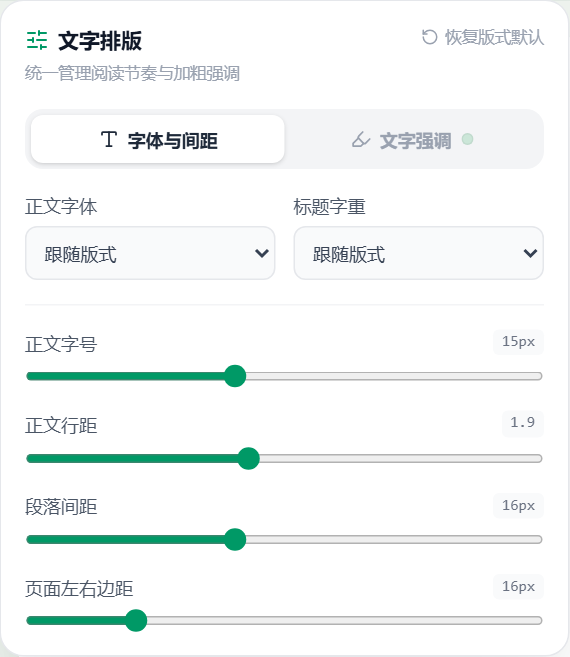
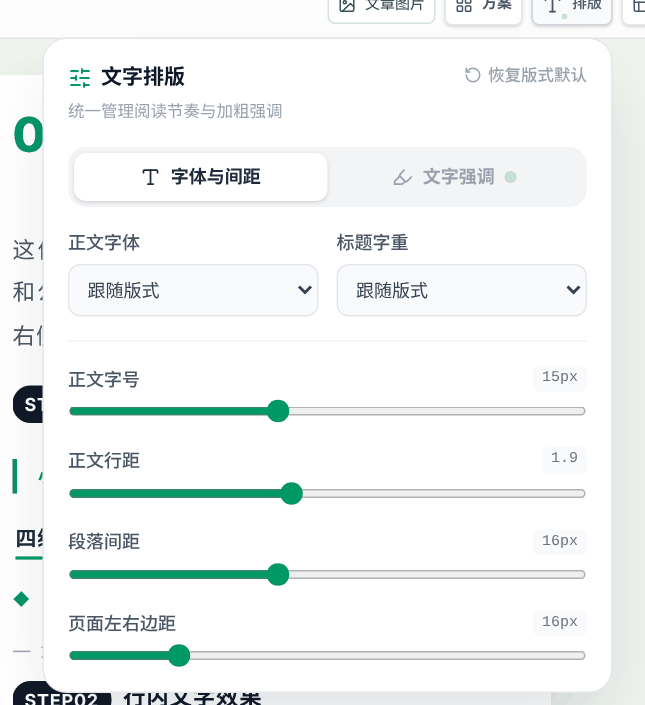
docs: rewrite README for the desktop app and the typesetting Skill
- Step-by-step usage for every feature that ships in the desktop app:
  editing/import, schemes and typography, skins and focus mode, WeChat
  copy, X export, image export center, AI tools, personal API, image
  upload, article image check
- Syntax quick reference and a full Skill guide: installing into Claude
  Code / other agents, conversational use, CLI flags, scheme ids, and
  reusing schemes exported from the desktop app
- Data/privacy notes and FAQ
- Replace web-version screenshots (which showed removed features such as
  login, video compare and Feishu import) with fresh desktop captures

Claude-Session: https://claude.ai/code/session_01EG2X4xBxDjdH6gznShTM4V

diff --git a/README.md b/README.md
@@ -1,44 +1,340 @@
 # 公众号排版工作台 · Windows 桌面版
 
-编辑或导入 Markdown / TXT，实时预览公众号排版。支持本机草稿、主题与风格方案、字号和间距、图片链接管理、公众号富文本复制、X 文案导出、文章长图、图片切片和小红书封面制作。
+在左边写 Markdown，右边实时看到公众号排版效果，一键复制到公众号后台；同一篇文章还能导出长图、切片、封面和小红书图文，或拆成 X（Twitter）Thread。
 
-基础排版使用本机数据。远程图片、自定义图床和个人 AI API 需要联网。AI 排版、封面方案和小红书图文使用工作台设置中的 OpenAI 兼容接口，服务商需允许跨域访问。个人配置保存在桌面应用的用户数据目录。
+所有内容都保存在本机，不需要注册登录。只有用到 AI 功能时，才会用你自己填写的 API 联网调用。
 
-## Windows 安装
+![公众号排版工作台：左侧 Markdown 编辑，右侧公众号实时预览](docs/images/workbench.png)
 
-从 [Releases](https://github.com/tony2015116/gzh-design/releases) 下载最新的 `LuoboGzh-Setup-<版本>-x64.exe`，在 Windows x64 上双击运行，按向导选择安装目录，然后从开始菜单打开「公众号排版工作台」。安装包自带 Electron 运行时，无需另外安装 Node.js。安装包未签名，Windows 可能提示“未知发布者”，选择“仍要运行”即可。新版本直接覆盖安装，草稿和设置会保留。
+**目录**：[下载安装](#下载安装) · [五分钟上手](#五分钟上手) · [功能详解](#功能详解) · [排版语法速览](#排版语法速览) · [排版 Skill](#排版-skill给-ai-agent-用) · [数据与隐私](#数据与隐私) · [常见问题](#常见问题) · [开发与发布](#开发与发布)
 
-## 发布新版本
+---
 
-推送到 `development` 或提交 PR 时，CI 会检查并打包，安装包在对应 Actions 运行页面的 Artifacts 里，不会发布 Release。
+## 下载安装
 
-要发布 Release，推送 `desktop-v` 开头的标签，版本号取自标签，无需修改 `package.json`：
+1. 打开 [Releases](https://github.com/tony2015116/gzh-design/releases)，下载最新的 `LuoboGzh-Setup-<版本>-x64.exe`。
+2. 双击运行，按向导选择安装目录。
+3. 从开始菜单或桌面打开「公众号排版工作台」。
 
-```bash
-git tag desktop-v0.2.0
-git push origin desktop-v0.2.0
+说明：
+
+- 仅支持 Windows x64。安装包已自带运行环境，不需要另装 Node.js 或浏览器。
+- 安装包没有数字签名，Windows 可能提示“未知发布者”或被 SmartScreen 拦截，点「更多信息 → 仍要运行」即可。
+- 升级时直接安装新版本覆盖即可，草稿、方案和设置都会保留。
+
+## 五分钟上手
+
+1. **写正文**：在左侧编辑区输入或粘贴 Markdown。已有文件可点编辑区上方的「本地」导入 `.md` / `.txt`。
+2. **选风格**：点预览区上方的「方案」，从六套精选风格方案里挑一套；也可以在顶部单独换主题色、版式和图片样式。
+3. **微调**：用「排版」调整字号、行距、段落间距和边距，用「组件」调整引用、卡片、代码块和图片的外观。
+4. **复制**：点右上角绿色的「复制到公众号」，到公众号后台编辑器里直接粘贴（`Ctrl+V`）。
+5. **检查**：在公众号后台预览一遍，尤其注意图片是否都能显示。
+
+正文会自动保存到本机，关掉软件再打开，内容还在。
+
+---
+
+## 功能详解
+
+### 编辑与导入
+
+- **自动保存**：右上角会显示「草稿已保存到本机」。
+- **导入文件**：「本地」按钮支持 2 MB 以内的 `.md` / `.txt` 文件。导入前会先预览，可以选「替换正文」或「追加到末尾」。
+- **粘贴图片**：在编辑区直接 `Ctrl+V` 粘贴截图，图片会被压缩后插入正文。插入方式取决于[图片上传设置](#图片上传设置)：默认是 Base64，也可以配置自己的图床。
+- **撤销整篇替换**：导入替换、AI 排版、应用配图这类整篇改动之后，「AI 工具」菜单里会出现「撤销：……」，可以恢复到改动前。
+- **语法参考**：编辑区上方的「语法参考」会打开速查表，每个语法都有示例，并带「复制语法」按钮。
+
+### 风格方案、主题与版式
+
+顶部工具栏可以单独切换 **主题色**（翠绿、海蓝、日落、皇家紫、樱桃红）、**版式**（商务极简、文艺清新、科技未来、活泼可爱、古典中式、杂志风、暗黑风）和 **图片样式**。
+
+「方案」打开风格方案库。一套方案就是版式、主题色、强调样式、字体字号和组件样式的完整组合：
+
+| 风格方案库 | 文字排版 | 组件外观 |
+| --- | --- | --- |
+| ![风格方案库](docs/images/schemes.png) | ![文字排版设置](docs/images/typography.png) | ![组件外观设置](docs/images/components.png) |
+
+- **精选方案**：玉石商务、海盐杂志、暖橙报告、紫电科技、樱桃轻盈、墨玉宋韵。点卡片即可套用，点「复制并编辑」会在它的基础上生成你自己的方案。
+- **我的方案**：把当前调好的效果「保存当前」为个人方案，最多 30 套，支持改名、删除，以及 **JSON 导入 / 导出**。导出的 JSON 可以换电脑恢复，也可以直接给[排版 Skill](#用桌面版调好的方案) 使用。
+- **排版**：「字体与间距」调正文字体、标题字重、字号、行距、段落间距和页面边距；「文字强调」调加粗内容的效果和强调颜色。
+- **组件**：分别设置引用、提示卡片、代码块的样式，以及组件圆角、图片圆角、统一边框和阴影。
+- **预览宽度**：右上角可切换「手机 375px」和「宽屏 677px」。
+
+### 外观皮肤与专注全屏
+
+在「工作台设置」里可以切换 **明亮 / 暗黑** 皮肤。皮肤只改变软件界面，不影响文章本身的配色和导出效果。
+
+「专注全屏」会收起周围的按钮和栏目，只留下编辑区和预览区，按 `Esc` 退出。
+
+![暗黑皮肤下的专注全屏](docs/images/dark-focus.png)
+
+### 复制到公众号
+
+点「复制到公众号」后，软件会先做一遍公众号兼容检查，再把富文本写进剪贴板：
+
+- 提示「复制成功」：直接去公众号后台粘贴。
+- 提示「已复制，请核对内容」：说明发现了可能有问题的地方，比如本机图片地址、加载失败的图片，粘贴后请重点检查。
+- 提示「已复制纯文本」：说明富文本写入失败，剪贴板里只有文字，没有样式。请重试一次。
+
+### 导出到 X（Twitter）
+
+预览区上方可以切换到「X Thread」和「X Article」：
+
+- **X Thread**：自动把文章拆成若干条推文，第一条会压缩成适合 X 的开头。可以「复制全部 Thread」，也可以逐条复制。
+- **X Article**：生成 X 长文版本，标题和正文分开复制。
+
+顶部的「更多导出」菜单里也有「复制 X Thread」和「复制 X Article」。
+
+<img src="docs/images/x-thread.png" alt="X Thread 多平台复制中心" width="560" />
+
+### 图片导出中心
+
+点「导出图片」打开，有四种模式：
+
+| 模式 | 用途 |
+| --- | --- |
+| **完整长图** | 把整篇预览导出成一张长图 PNG。 |
+| **切片多图** | 按比例切成多张图，支持 3:4（小红书最佳）、1:1、4:3、16:9，可以一次全部下载。 |
+| **爆款封面** | 填写主标题、副标题，选封面风格和主题色，生成封面图。「AI 生成封面方案」可以根据正文自动提炼标题文案（需要配置个人 API）。 |
+| **小红书图文** | AI 把文章拆成一组小红书卡片，有多种卡片风格可选（需要配置个人 API）。 |
+
+| 切片多图 | 爆款封面 |
+| --- | --- |
+| ![切片多图](docs/images/export-slice.png) | ![爆款封面](docs/images/export-cover.png) |
+
+### AI 工具
+
+AI 功能都使用你在「工作台设置 → AI 排版」里填写的个人 API（见[下一节](#个人-api-设置)）。
+
+- **AI 一键排版**：先选排版偏好，比如小标题拆得细不细、加粗多少、要不要金句引用和分割线、要不要总结或信息卡片，也可以补充其他要求。AI 返回后会弹出确认窗口，可以对比「排版效果」和「改动对比」，再决定「采用结果」还是「放弃结果」。采用后仍可撤销。
+- **智能配图建议**：分析文章，建议在哪些位置插入什么类型的信息图（流程图、对比图、时间线、框架图等）。勾选需要的条目后，软件会在本机生成 PNG 并插入正文。配置个人 API 后，配图内容会更贴合文章。
+
+### 个人 API 设置
+
+打开「工作台设置 → AI 排版」，填写：
+
+| 字段 | 说明 |
+| --- | --- |
+| OpenAI 兼容 API Key | 你的服务商密钥，例如 `sk-...` |
+| 接口地址（Base URL） | 默认 `https://api.openai.com/v1`。其他兼容 OpenAI 接口的服务商填它们的地址。 |
+| 模型名称（Model） | 默认 `gpt-4o`，按服务商实际提供的模型填写。 |
+
+填好后可以先点「测试连接」，它会发一次很短的请求，并显示响应状态和耗时。不保存也能测，测试失败也可以先保存。
+
+<img src="docs/images/settings.png" alt="工作台设置：外观皮肤与个人 API" width="420" />
+
+注意：
+
+- 请求由软件直接发给你填写的服务商，费用从你自己的 API 账户扣。
+- 服务商接口必须允许跨域访问（CORS），否则测试连接会失败。
+- API Key 只保存在本机，不会写进导出的方案或文章里。
+
+### 图片上传设置
+
+「工作台设置 → 图片上传」决定粘贴进编辑区的图片怎么处理：
+
+- **Base64（默认）**：图片压缩后直接嵌在正文里，不需要任何服务器。适合本机预览和导出图片。粘贴到公众号后，请确认图片能正常显示。
+- **自定义 CDN**：把图片上传到你自己的图床。需要填写「上传接口 URL」，可选填「图片字段名」（默认 `file`）、「额外请求头（JSON）」（例如 `{"Authorization":"Bearer xxx"}`）和「URL 提取路径」（从返回的 JSON 中取图片地址，例如 `data.url`）。上传失败时会自动退回 Base64。
+
+### 文章图片检查
+
+预览区上方的「文章图片」会列出正文里的所有图片，并检测每张能否加载。失效的图片可以直接「更换链接」。本机地址的图片会被标出来，因为发到公众号或其他平台之前，需要先换成公开的图片地址。
+
+<img src="docs/images/article-images.png" alt="文章图片检查与更换链接" width="520" />
+
+---
+
+## 排版语法速览
+
+标准 Markdown 都能用，另外有一些专门为公众号设计的写法。完整说明见 [Markdown 语法参考](docs/syntax_tutorial.md)，软件里的「语法参考」也能随时查。
+
+**标题**：用 `|` 分隔编号、标题和副标题，效果更好。
+
+```markdown
+# 01 | 主标题 | 一句话副标题
+## STEP 01 | 小节标题
+### 标签 | 三级标题
 ```
 
-版本号要比上一次大，安装时才会识别为升级。
+**文字**：`**加粗**`、`*斜体*`、`~~删除线~~`、`` `行内代码` ``、`[链接文字](https://…)`。
 
-## 仓库中的 Skill
+**图片**：单独一行一张；同一行写 2–3 张会自动横排成图组。
 
-仓库保留独立的 [排版 Skill](skills/luobo-gzh-design/SKILL.md)，包含使用说明、参考资料和可独立运行的渲染脚本。Skill 与工作台源自同一套排版引擎，其使用方法见 Skill 文档。当前 EXE 包含工作台的排版代码与界面，未包含独立 Skill 目录，也不会为 Agent 安装 Skill。
+```markdown
+![说明](https://example.com/a.jpg)
 
-## 安装包大小
+![图1](https://example.com/1.jpg) ![图2](https://example.com/2.jpg)
+```
 
-当前 EXE 为 120,616,876 字节（约 115 MiB）。解包后整个应用约 358 MiB，其中工作台自身的 `resources/app.asar` 约 0.92 MiB，体积主要来自 Electron 自带的 Chromium 及其资源。
+**卡片组件**：组件标签要单独占一行。
 
-可以优先测试仅保留必要的 Chromium 语言资源。当前语言资源解包后约 49 MiB，安装包实际能节省多少，需用重新打包的结果衡量。如果目标是显著缩小下载体积，可评估使用 Windows WebView2 的方案，例如 Tauri 2。这需要迁移桌面壳，并在 Windows 上复测富文本剪贴板、PNG 下载和个人 API。使用联网引导安装时，缺少 WebView2 的机器需要额外下载运行时。
+```markdown
+<CoverCard kicker="AI 观察" title="用好 AI 的三个习惯" subtitle="从提问到复盘">
+导语：一两句话说清这篇讲什么。
+</CoverCard>
 
-## 开发与打包
+<TocCard />
 
-使用 Node.js 22.22.2 或 24 LTS，在仓库中运行：
+<InfoCard title="前置条件">
+一段提示或注意事项。
+</InfoCard>
+
+<SummaryCard title="带走清单">
+- 要点一
+- 要点二
+</SummaryCard>
+
+<ScrollCard title="接口返回" height="220">
+很长的内容，在固定高度内上下滑动……
+</ScrollCard>
+
+<AuthorCard name="你的署名">
+一句个人简介
+</AuthorCard>
+```
+
+| 组件 | 作用 |
+| --- | --- |
+| `CoverCard` | 开篇封面，放在全文最前面 |
+| `TocCard` | 本文导读；不写条目时自动提取二级标题 |
+| `InfoCard` | 提示、前置条件、注意事项 |
+| `SummaryCard` | 章节或全文总结，`- ` 开头的行会变成要点列表 |
+| `ScrollCard` | 长日志、长数据，在固定高度内滑动 |
+| `LongImageCard` | 超长截图，复制到公众号时默认展开 |
+| `AuthorCard` | 文末签名，附带“点赞、在看、转发”引导语 |
+
+不支持：`==高亮==`、脚注、数学公式，以及 `<div>`、`<style>` 等任意 HTML 标签。
+
+---
+
+## 排版 Skill（给 AI Agent 用）
+
+仓库里的 [`skills/luobo-gzh-design`](skills/luobo-gzh-design) 是一个排版 Skill，用的是和桌面版**同一套排版引擎**。
+
+适用场景是让 AI 代劳排版：把文章交给 Claude Code、Codex、Cursor 等 AI Agent，Agent 会判断文章类型、推荐风格方案、改写标题并补充合适的组件，最后生成一个 HTML 页面。在浏览器里打开这个页面，点「复制到公众号」，就能粘贴到公众号后台。
+
+桌面版和 Skill 的区别：
+
+| | 桌面版 | Skill |
+| --- | --- | --- |
+| 谁来排版 | 你自己，所见即所得 | AI Agent 根据文章自动排 |
+| 产物 | 软件内实时预览，直接复制 | 一个带「复制到公众号」按钮的 HTML 文件 |
+| 依赖 | 安装 exe | Node.js 18 及以上，不用 `npm install`，不用联网 |
+| 风格方案 | 六套精选方案 + 我的方案 | 同样的六套方案，也能读取桌面版导出的方案 JSON |
+
+安装包里不包含 Skill，需要单独从仓库获取。
+
+### 安装到 Agent
+
+先把仓库下载到本地，`git clone` 或在 GitHub 页面点「Code → Download ZIP」都可以。然后把 `skills/luobo-gzh-design` 整个文件夹复制到 Agent 能读取的位置：
+
+- **Claude Code**：放到 `~/.claude/skills/luobo-gzh-design/`（所有项目都能用），或项目里的 `.claude/skills/luobo-gzh-design/`（只在该项目用）。Agent 会读取其中的 `SKILL.md`。
+- **Codex、Cursor、WorkBuddy、Windsurf、Cline 等**：放进你的项目目录，并让 Agent 按文件夹里的 `AGENTS.md` 工作。比如在对话里说“按 `skills/luobo-gzh-design/AGENTS.md` 的流程排版这篇文章”。
+
+### 在对话中使用
+
+装好后直接用自然语言提要求：
+
+- “把 `article.md` 排成公众号可以粘贴的 HTML”
+- “用海盐杂志风格排版，加上封面和文末签名”
+- “这是一篇工具盘点，帮我排一下，风格你来定”
+
+Agent 会按 Skill 里的流程工作：
+
+1. 读文章，判断类型（教程、清单、评测、观点、心得、资讯）。
+2. 推荐一个首选风格和一个备选风格，让你选；你说“你定”，它就直接排。
+3. 把原文改写成带排版语法的新文件 `<原名>.typeset.md`，**不会改动原文件**，也不会编造原文没有的内容。
+4. 渲染出 HTML，并自动做公众号兼容检查。
+5. 告诉你用了哪个方案、做了哪些处理，以及产物路径。
+
+拿到 HTML 后，用浏览器打开，点页面右上角「复制到公众号」，到公众号后台粘贴即可。
+
+### 不通过 Agent，直接用命令行
+
+装了 Node.js 18 以上就能直接运行。在 `skills/luobo-gzh-design` 目录下：
+
+```bash
+# 查看所有风格方案
+node scripts/typeset.mjs --list-schemes
+
+# 把 Markdown 渲染成可复制的 HTML
+node scripts/typeset.mjs --input 文章.md --scheme 海盐杂志 --title "文章标题" --out 文章.html
+
+# 单独检查某个 HTML 是否兼容公众号
+node scripts/validate.mjs 文章.html
+```
+
+| 参数 | 说明 |
+| --- | --- |
+| `--input` | 要渲染的 Markdown 文件（必填） |
+| `--scheme` | 方案 id 或中文名，默认 `jade-business`（玉石商务） |
+| `--layout` / `--theme` | 在方案基础上单独换版式或主题色，例如 `--theme sunset` |
+| `--scheme-file` | 桌面版「我的方案」导出的 JSON 文件 |
+| `--title` | 生成页面顶栏显示的标题 |
+| `--out` | 输出路径，默认与输入文件同名、扩展名为 `.html` |
+
+兼容检查通过时退出码为 0。退出码为 2 表示有错误，通常是 Markdown 里手写了 HTML，改成上面的标准语法后重新渲染即可。
+
+六套方案的 id：
+
+| id | 中文名 | 适合 |
+| --- | --- | --- |
+| `jade-business` | 玉石商务 | 方法论、复盘、工具测评（拿不准就用它） |
+| `ocean-editorial` | 海盐杂志 | 观点长文、品牌内容、书评 |
+| `amber-report` | 暖橙报告 | 案例拆解、数据解读 |
+| `violet-tech` | 紫电科技 | 技术教程、产品发布 |
+| `cherry-friendly` | 樱桃轻盈 | 清单好物、生活分享 |
+| `jade-classic` | 墨玉宋韵 | 人文随笔、读书笔记 |
+
+### 用桌面版调好的方案
+
+在桌面版「方案 → 我的方案」里导出 JSON，交给 Skill 使用，就能得到和桌面版一样的效果：
+
+```bash
+node scripts/typeset.mjs --scheme-file my-schemes.json --list-schemes
+node scripts/typeset.mjs --input 文章.md --scheme-file my-schemes.json --scheme "我的方案名"
+```
+
+在 Agent 对话里，直接告诉它这个 JSON 文件的路径就行。
+
+Skill 的完整说明见 [SKILL.md](skills/luobo-gzh-design/SKILL.md)，语法、方案和兼容规则在 [references/](skills/luobo-gzh-design/references) 目录下。
+
+---
+
+## 数据与隐私
+
+- 正文草稿、风格方案、外观皮肤、个人 API 设置和图床设置都只保存在本机的软件数据目录里（一般是 `%APPDATA%\公众号排版工作台`），不会上传到任何服务器。
+- 软件只在三种情况下联网：调用你配置的 AI 接口、上传到你配置的图床、加载正文里的网络图片。
+- 草稿只保留当前一份，加上最近一次整篇替换前的撤销快照，**没有历史版本**。重要文章请另存成 `.md` 文件。
+- 卸载软件默认不会删除数据目录。要彻底清除数据，卸载后手动删除上面的目录。
+- 导出的方案 JSON 不包含 API Key。
+
+## 常见问题
+
+**粘贴到公众号后图片不显示？**
+公众号只能显示公开可访问的网络图片。本机路径的图片肯定不行；Base64 图片能不能用，以公众号后台的实际显示为准。最稳妥的做法是用 `https://` 图片链接，或配置自定义图床。用「文章图片」可以一次检查全部图片。
+
+**测试连接失败？**
+先确认 Key、Base URL 和模型名称都正确。如果这三项都没问题，多半是服务商不允许跨域访问（CORS），换一个支持跨域的服务商或中转接口即可。
+
+**复制后公众号里格式乱了？**
+确认提示的是「复制成功」，而不是「已复制纯文本」。不要在 Word 等其他软件里中转，直接粘贴到公众号编辑器。
+
+**换电脑怎么迁移？**
+把正文另存为 `.md` 文件，再从「方案 → 我的方案」导出 JSON。到新电脑上导入这两样即可。API Key 需要重新填写。
+
+---
+
+## 开发与发布
+
+需要 Node.js 22.22.2 或 24 LTS。
 
 ```bash
 cd app
 npm ci
-npm run dev
+npm run dev          # 浏览器里开发调试
+npm run build
+npm run start:desktop  # 以桌面版运行
 ```
 
 提交前检查（CI 也会执行，任一失败都不会打包 EXE）：
@@ -49,13 +345,26 @@ npm run lint
 npm test
 ```
 
-运行桌面版：
+在 Windows 的 `app/` 目录运行 `npm run package:win`，可以在本地打出 x64 安装包，产物在 `app/release/`。首次构建需要联网下载 Electron 和 NSIS。
+
+**自动打包与发布**：推送到 `development` 分支或提交 PR 时，GitHub Actions 会检查并打包，安装包在对应运行页面的 Artifacts 里，但不会发布 Release。要发布 Release，推送一个 `desktop-v` 开头的标签，版本号直接取自标签：
 
 ```bash
-npm run build
-npm run start:desktop
+git tag desktop-v0.2.0
+git push origin desktop-v0.2.0
 ```
 
-在 Windows 的 `app/` 目录运行 `npm run package:win` 重建 x64 安装包。产物位于 `app/release/`。首次构建需要联网下载 Electron 和 NSIS 工具。
+新版本号必须比上一次大，安装时才会被识别为升级。
 
-[Markdown 语法参考](docs/syntax_tutorial.md) · [上游仓库](https://github.com/zhouwei713/luobo-gzh-design)
+**更新 Skill**：排版组件、解析器或风格方案改动后，在 `app/` 下运行 `npm run build:skill`，重新生成 `skills/luobo-gzh-design/scripts/` 里的渲染引擎。
+
+| 目录 | 内容 |
+| --- | --- |
+| `app/` | 桌面版源码（React + TypeScript + Vite + Electron） |
+| `app/desktop/` | Electron 主进程 |
+| `skills/luobo-gzh-design/` | 排版 Skill |
+| `docs/` | 语法参考与截图 |
+
+---
+
+本项目 fork 自 [zhouwei713/luobo-gzh-design](https://github.com/zhouwei713/luobo-gzh-design)，在其基础上改为 Windows 本地桌面版。
